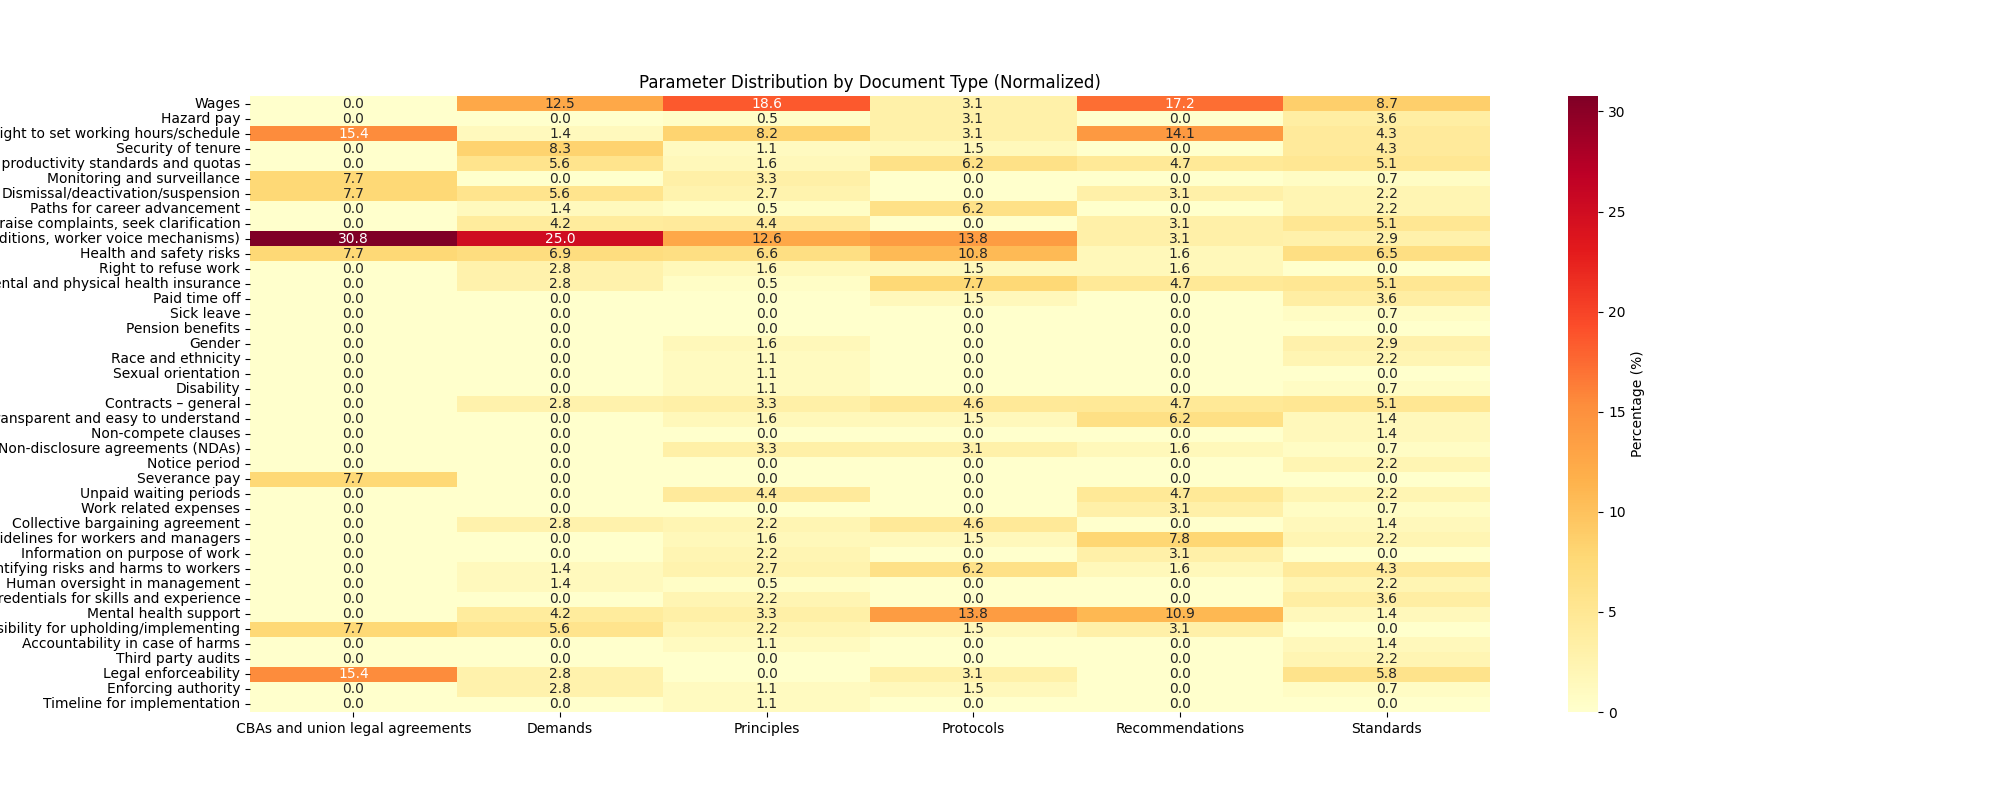
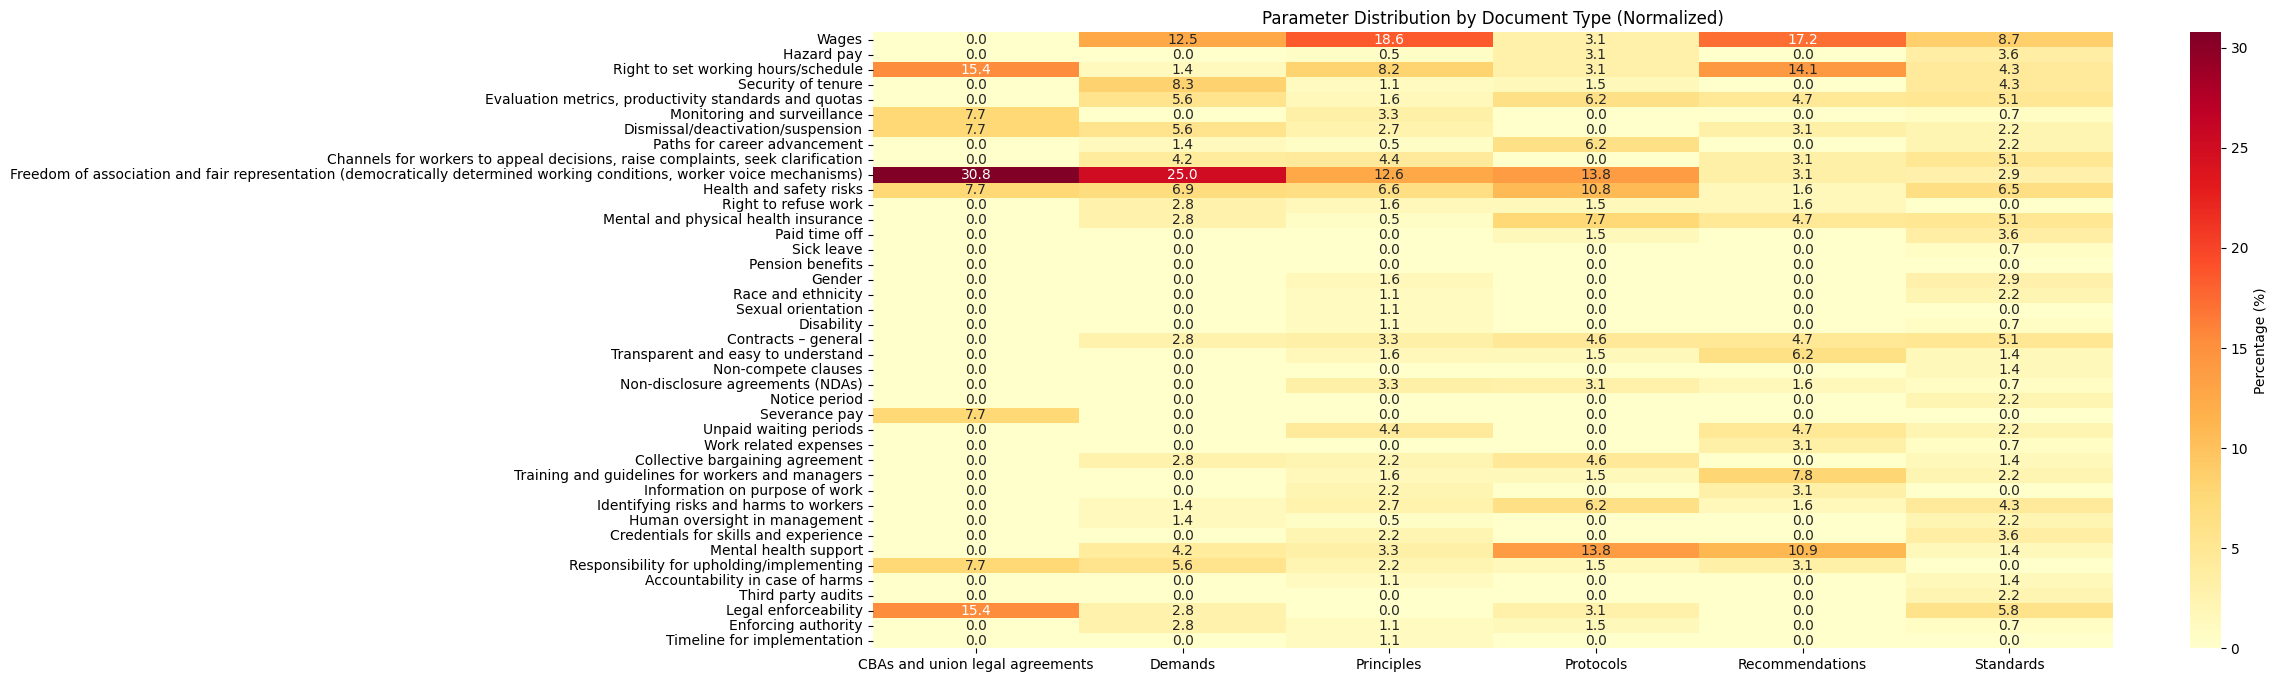
fixed plot output

diff --git a/analysis.py b/analysis.py
@@ -8,6 +8,7 @@ import pandas as pd
 import numpy as np
 import matplotlib.pyplot as plt
 import seaborn as sns
+import textwrap
 
 # Load results from manual review
 data = pd.read_csv('./data/review_results.csv')
@@ -353,6 +354,8 @@ sns.barplot(
     ax=ax
 )
 ax.bar_label(ax.containers[0])  # Adds labels to bars
+labels = [textwrap.fill(label.get_text(), width=50) for label in ax.get_yticklabels()] # Wrap y-axis labels
+ax.set_yticklabels(labels)
 plt.ylabel('')
 plt.xlabel('Number of Documents with Parameter Present (Max 13)')
 plt.title('Top 10 Most Widely Adopted Parameters')
@@ -373,6 +376,8 @@ sns.barplot(
     y='parameter',
     x='num_docs',
 )
+labels = [textwrap.fill(label.get_text(), width=50) for label in ax.get_yticklabels()] # Wrap y-axis labels
+ax.set_yticklabels(labels)
 plt.ylabel('')
 plt.xlabel('Number of Documents with Parameter Present (Max 13)')
 plt.title('Bottom 10 Parameters - i.e. Least Adopted Parameters')
